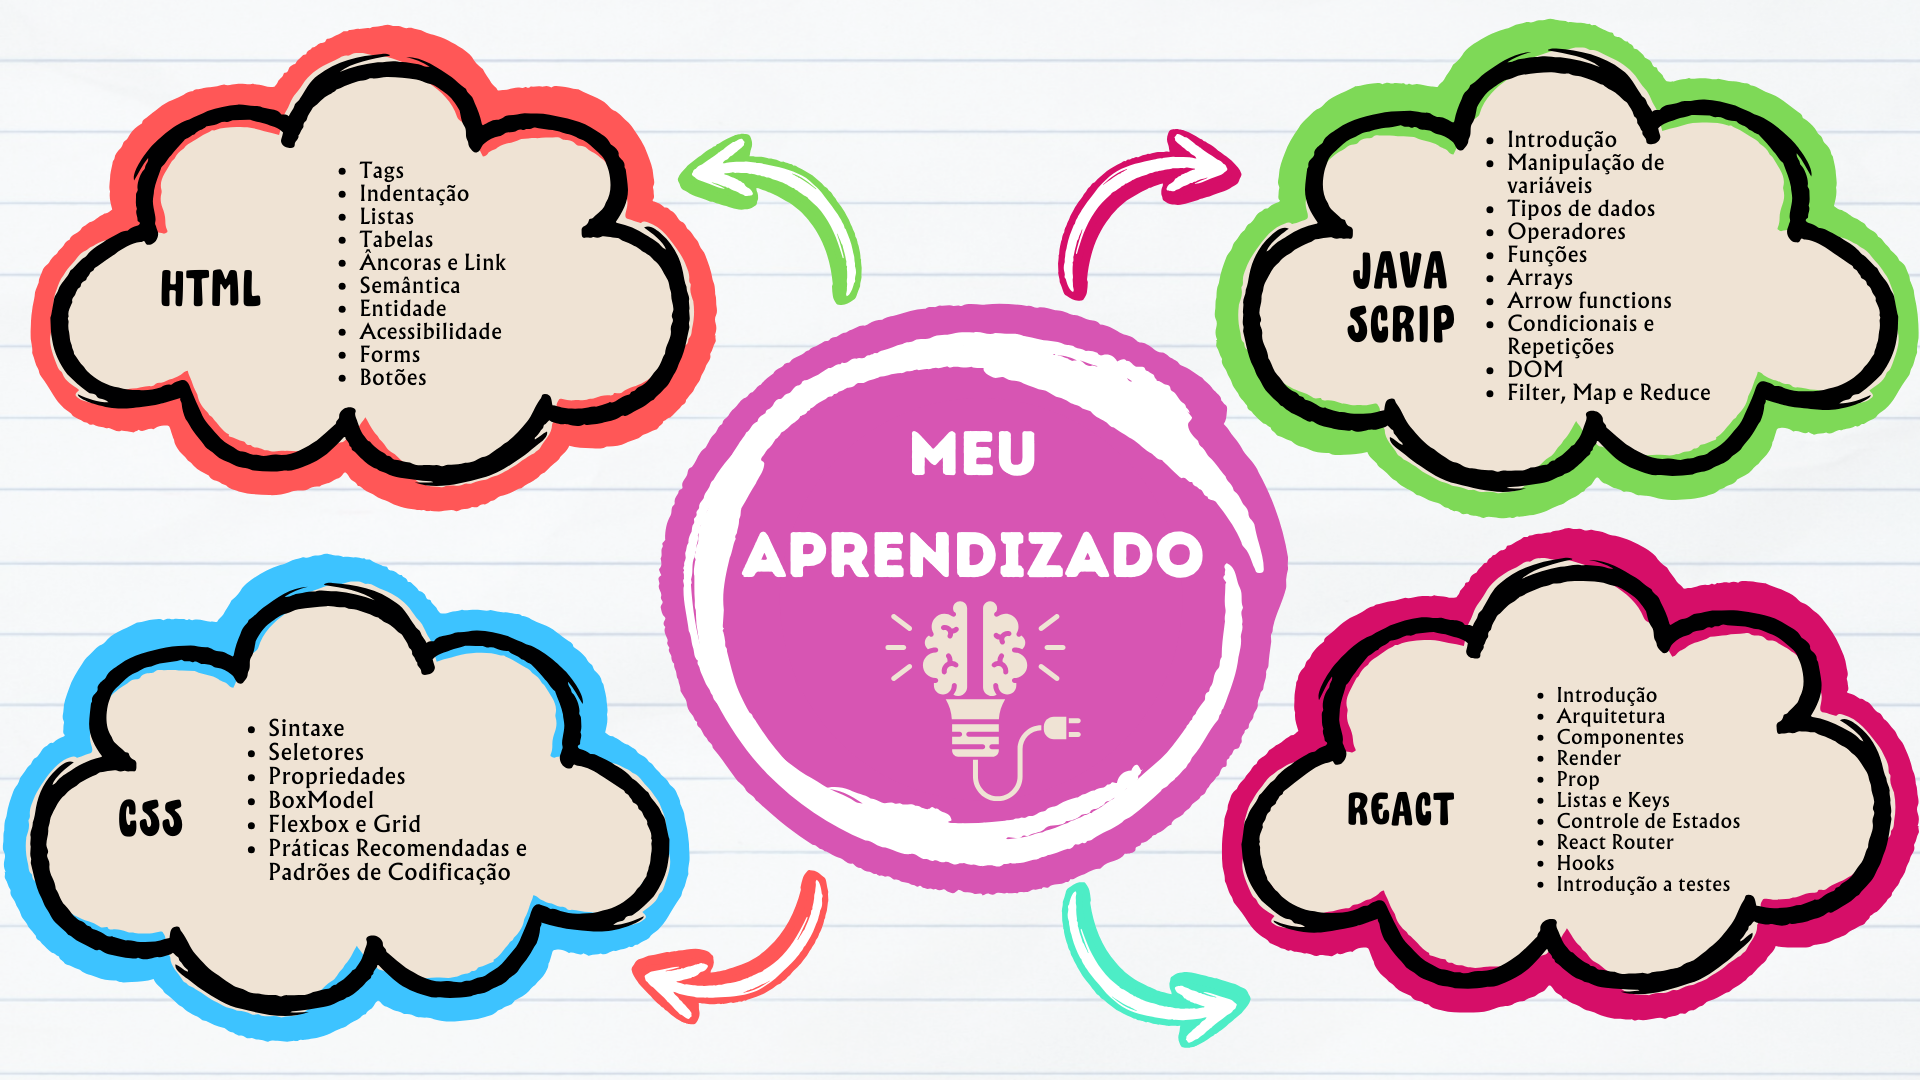
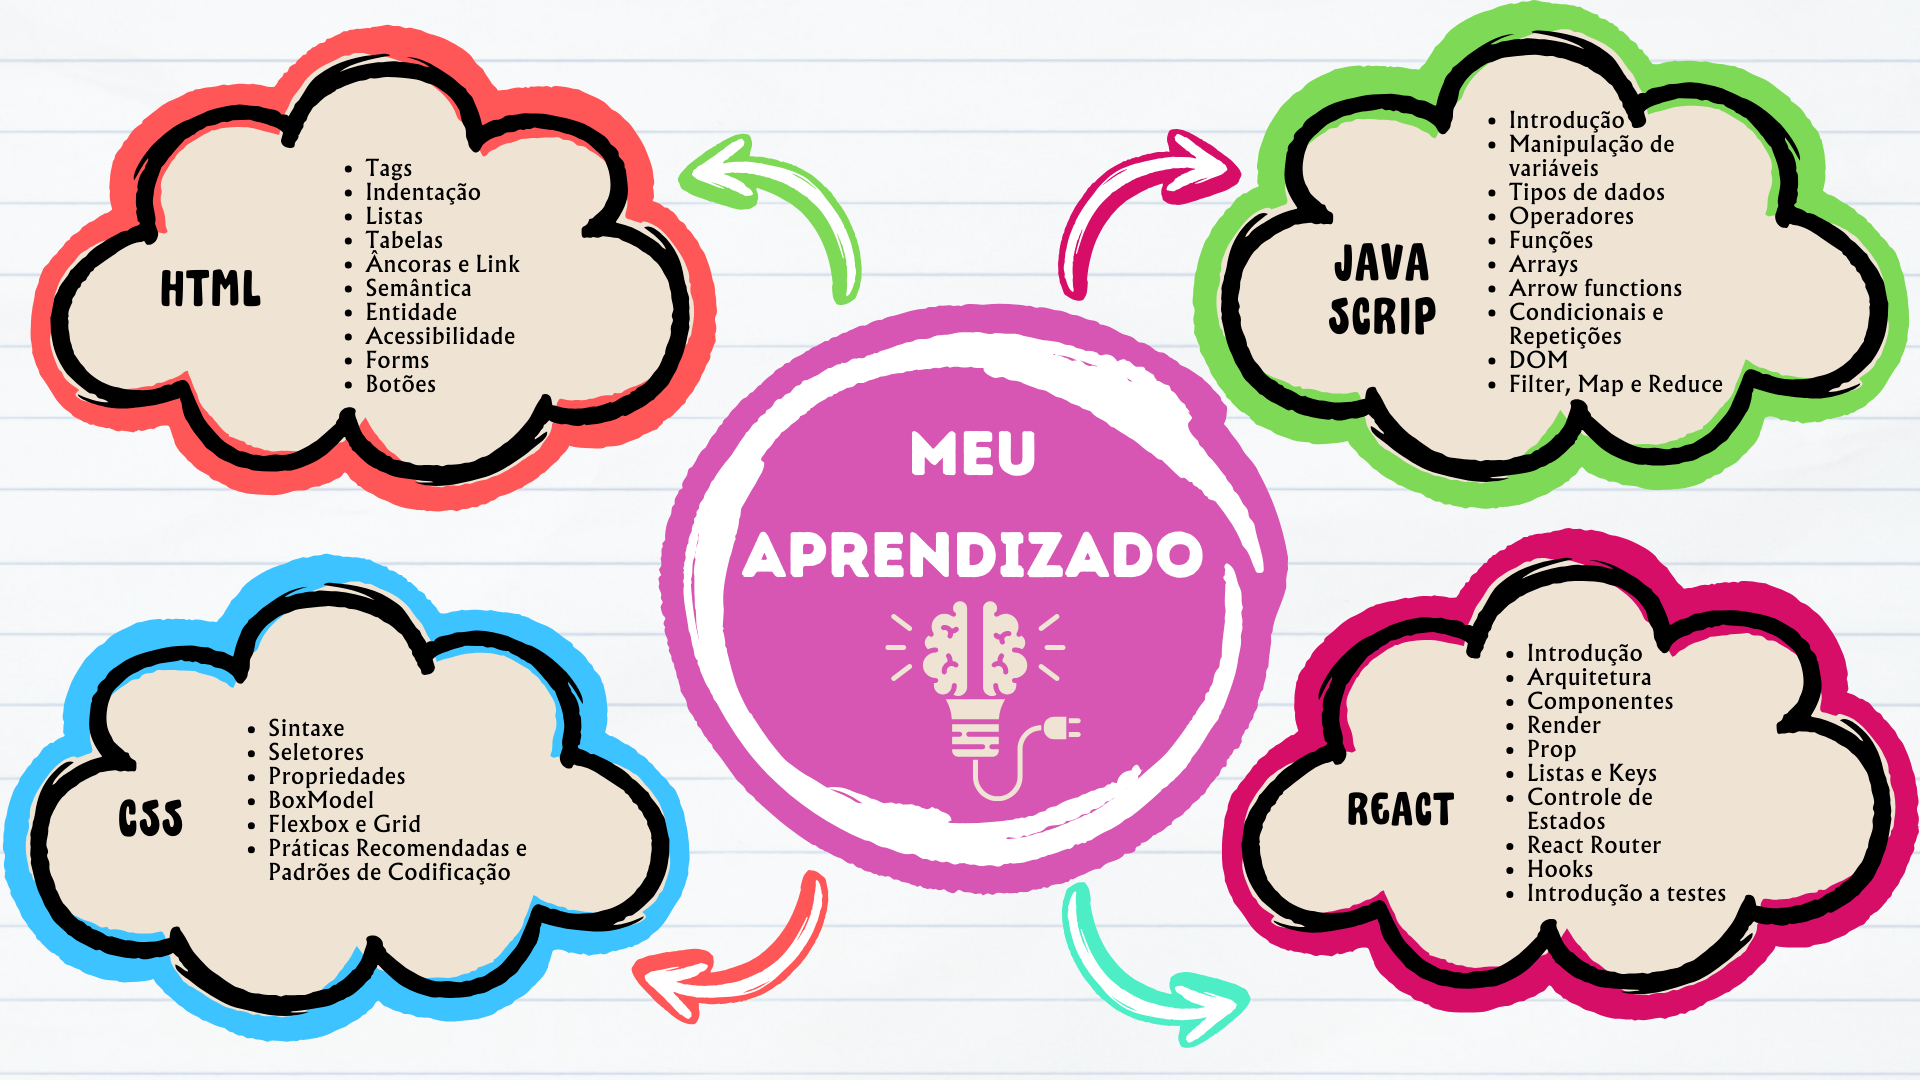
Tamanho da imagem do sobre, parte do aprendizado e ajuste de fonte

Changed region(s): [[0.5938, 0.0, 1.0, 0.4889], [0.7812, 0.5806, 0.9062, 0.8556], [0.1875, 0.1528, 0.2812, 0.3667]]

diff --git a/src/pages/Sobre/Sobre.module.css b/src/pages/Sobre/Sobre.module.css
@@ -67,14 +67,14 @@
     font-size: 25px;
     color: var(--text-sobre);
     font-weight: 600;
-    font-size: 40px;
+    font-size: 50px;
     height: 40px;
     margin-top: 50px;
     margin-bottom: 20px;
   }
 
   .aprendizadoImg {
-    width: 60%;
+    width: 70%;
     margin-top: 50px;
     margin-bottom: 50px;
   }
